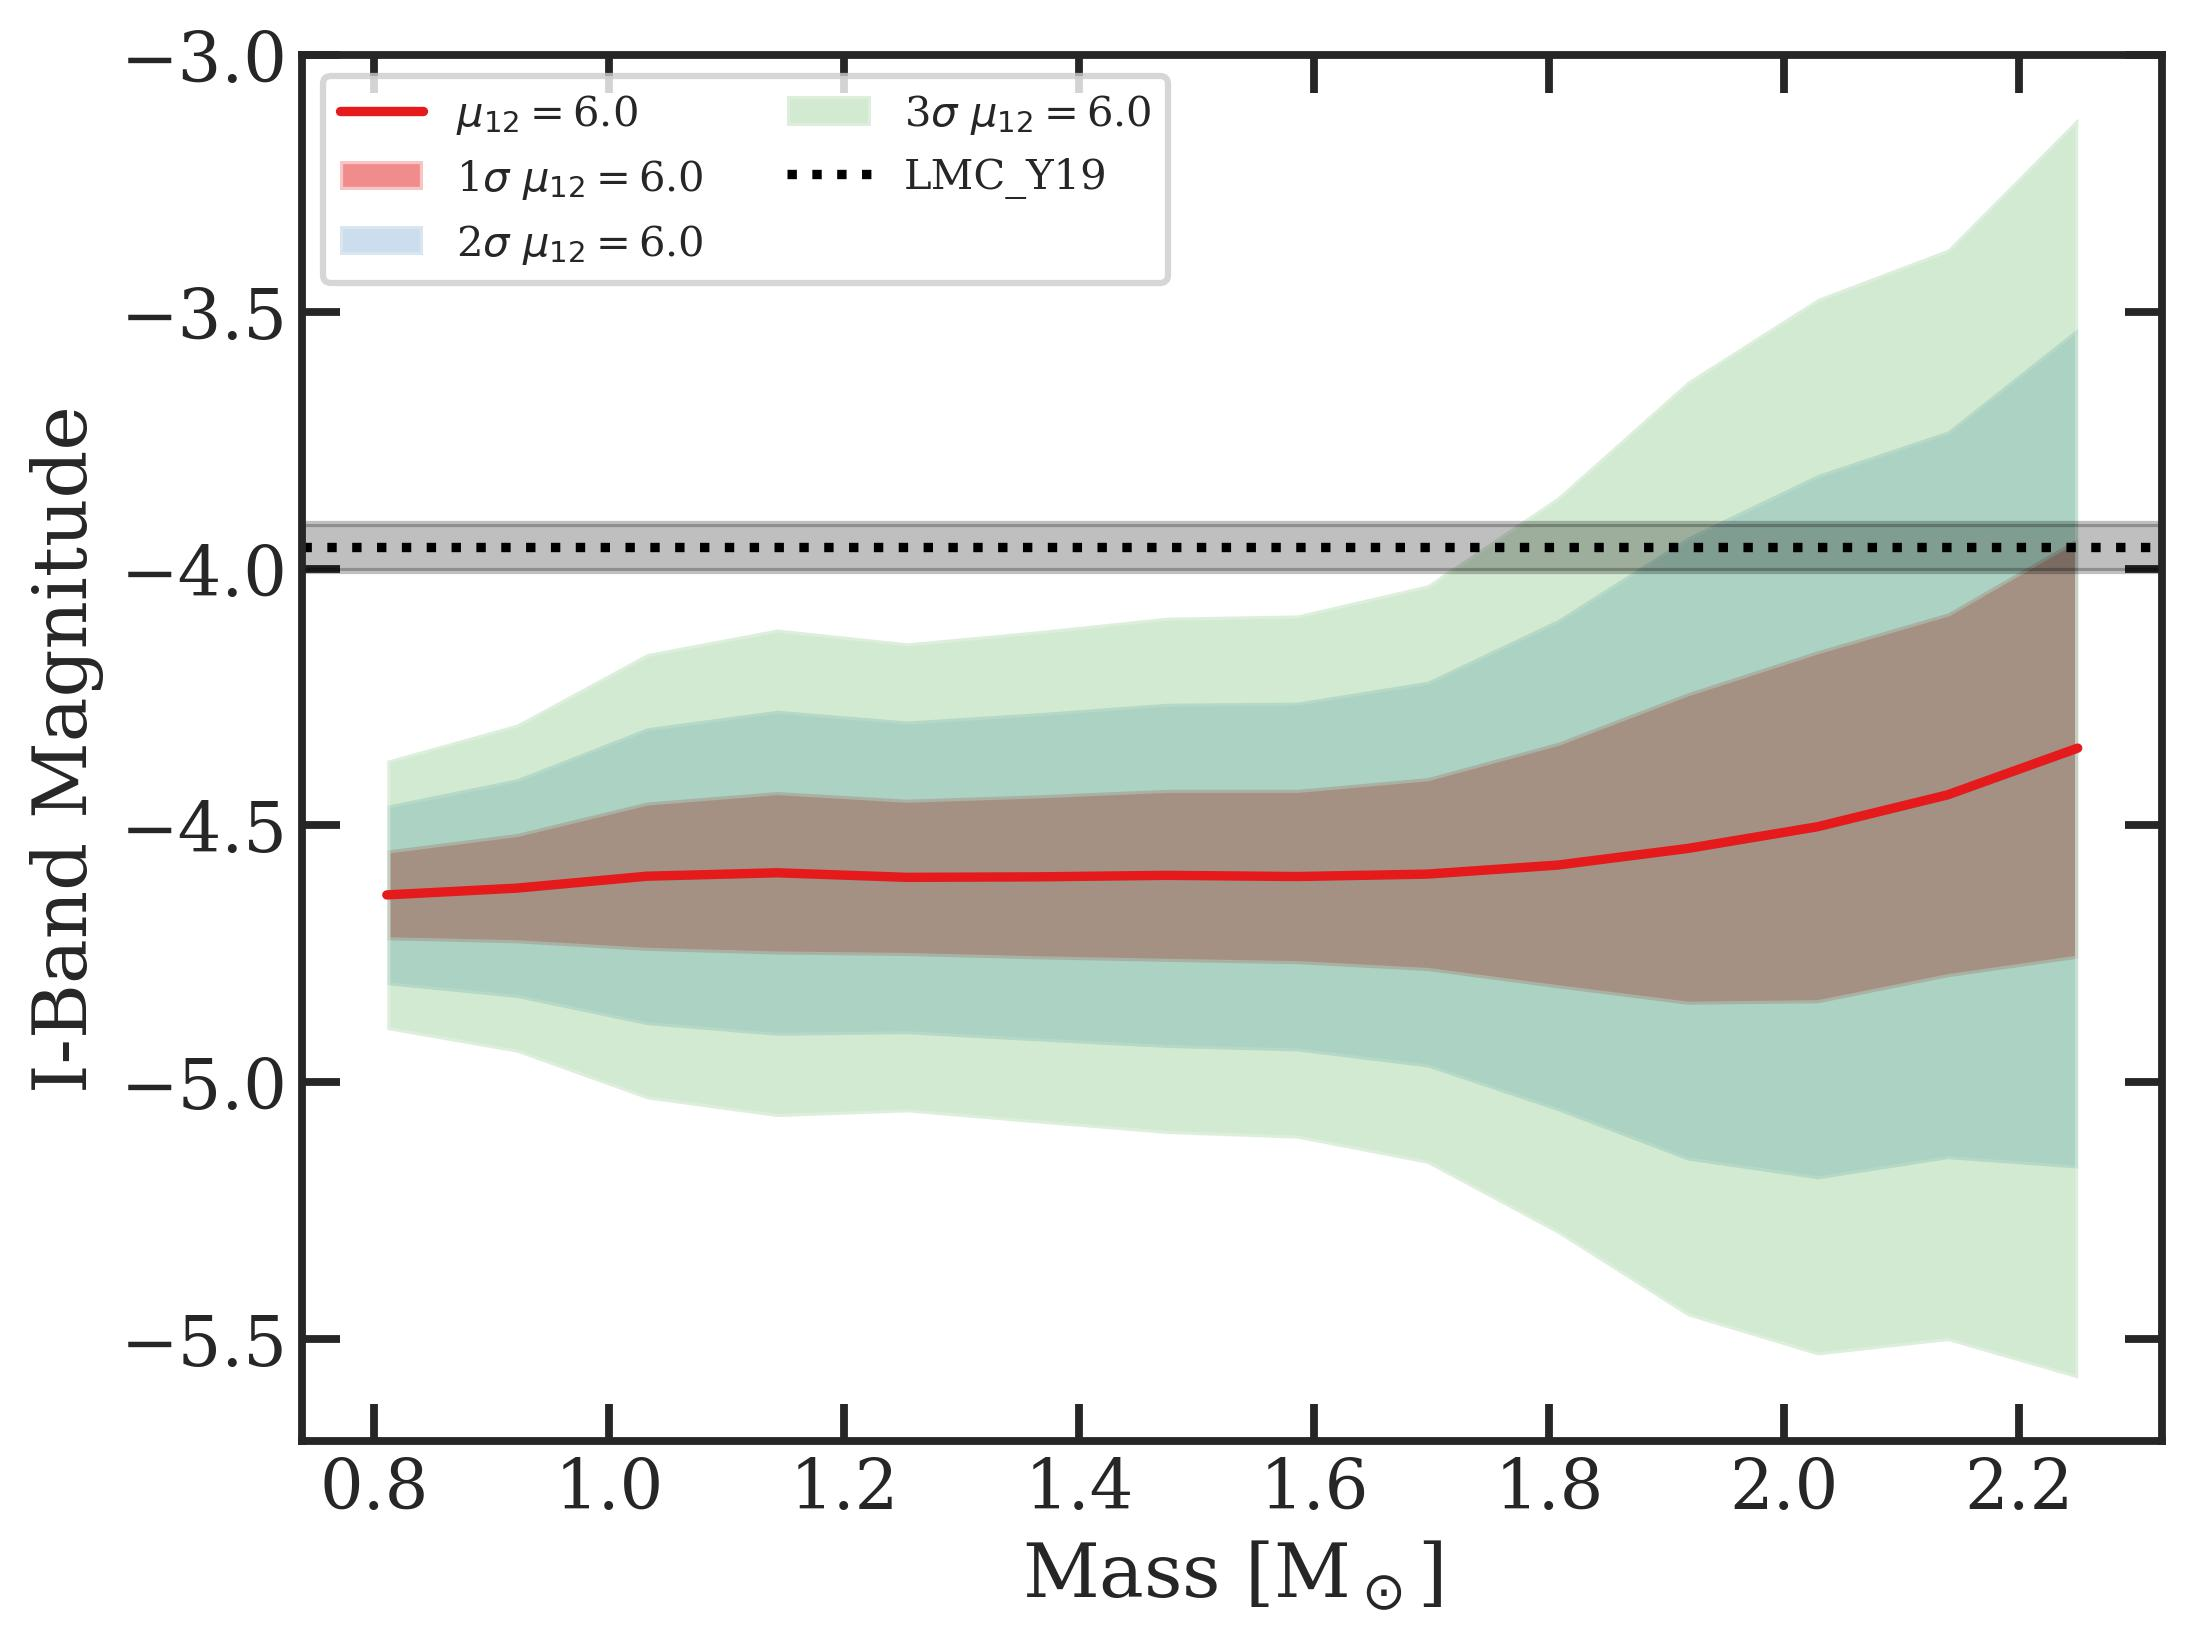
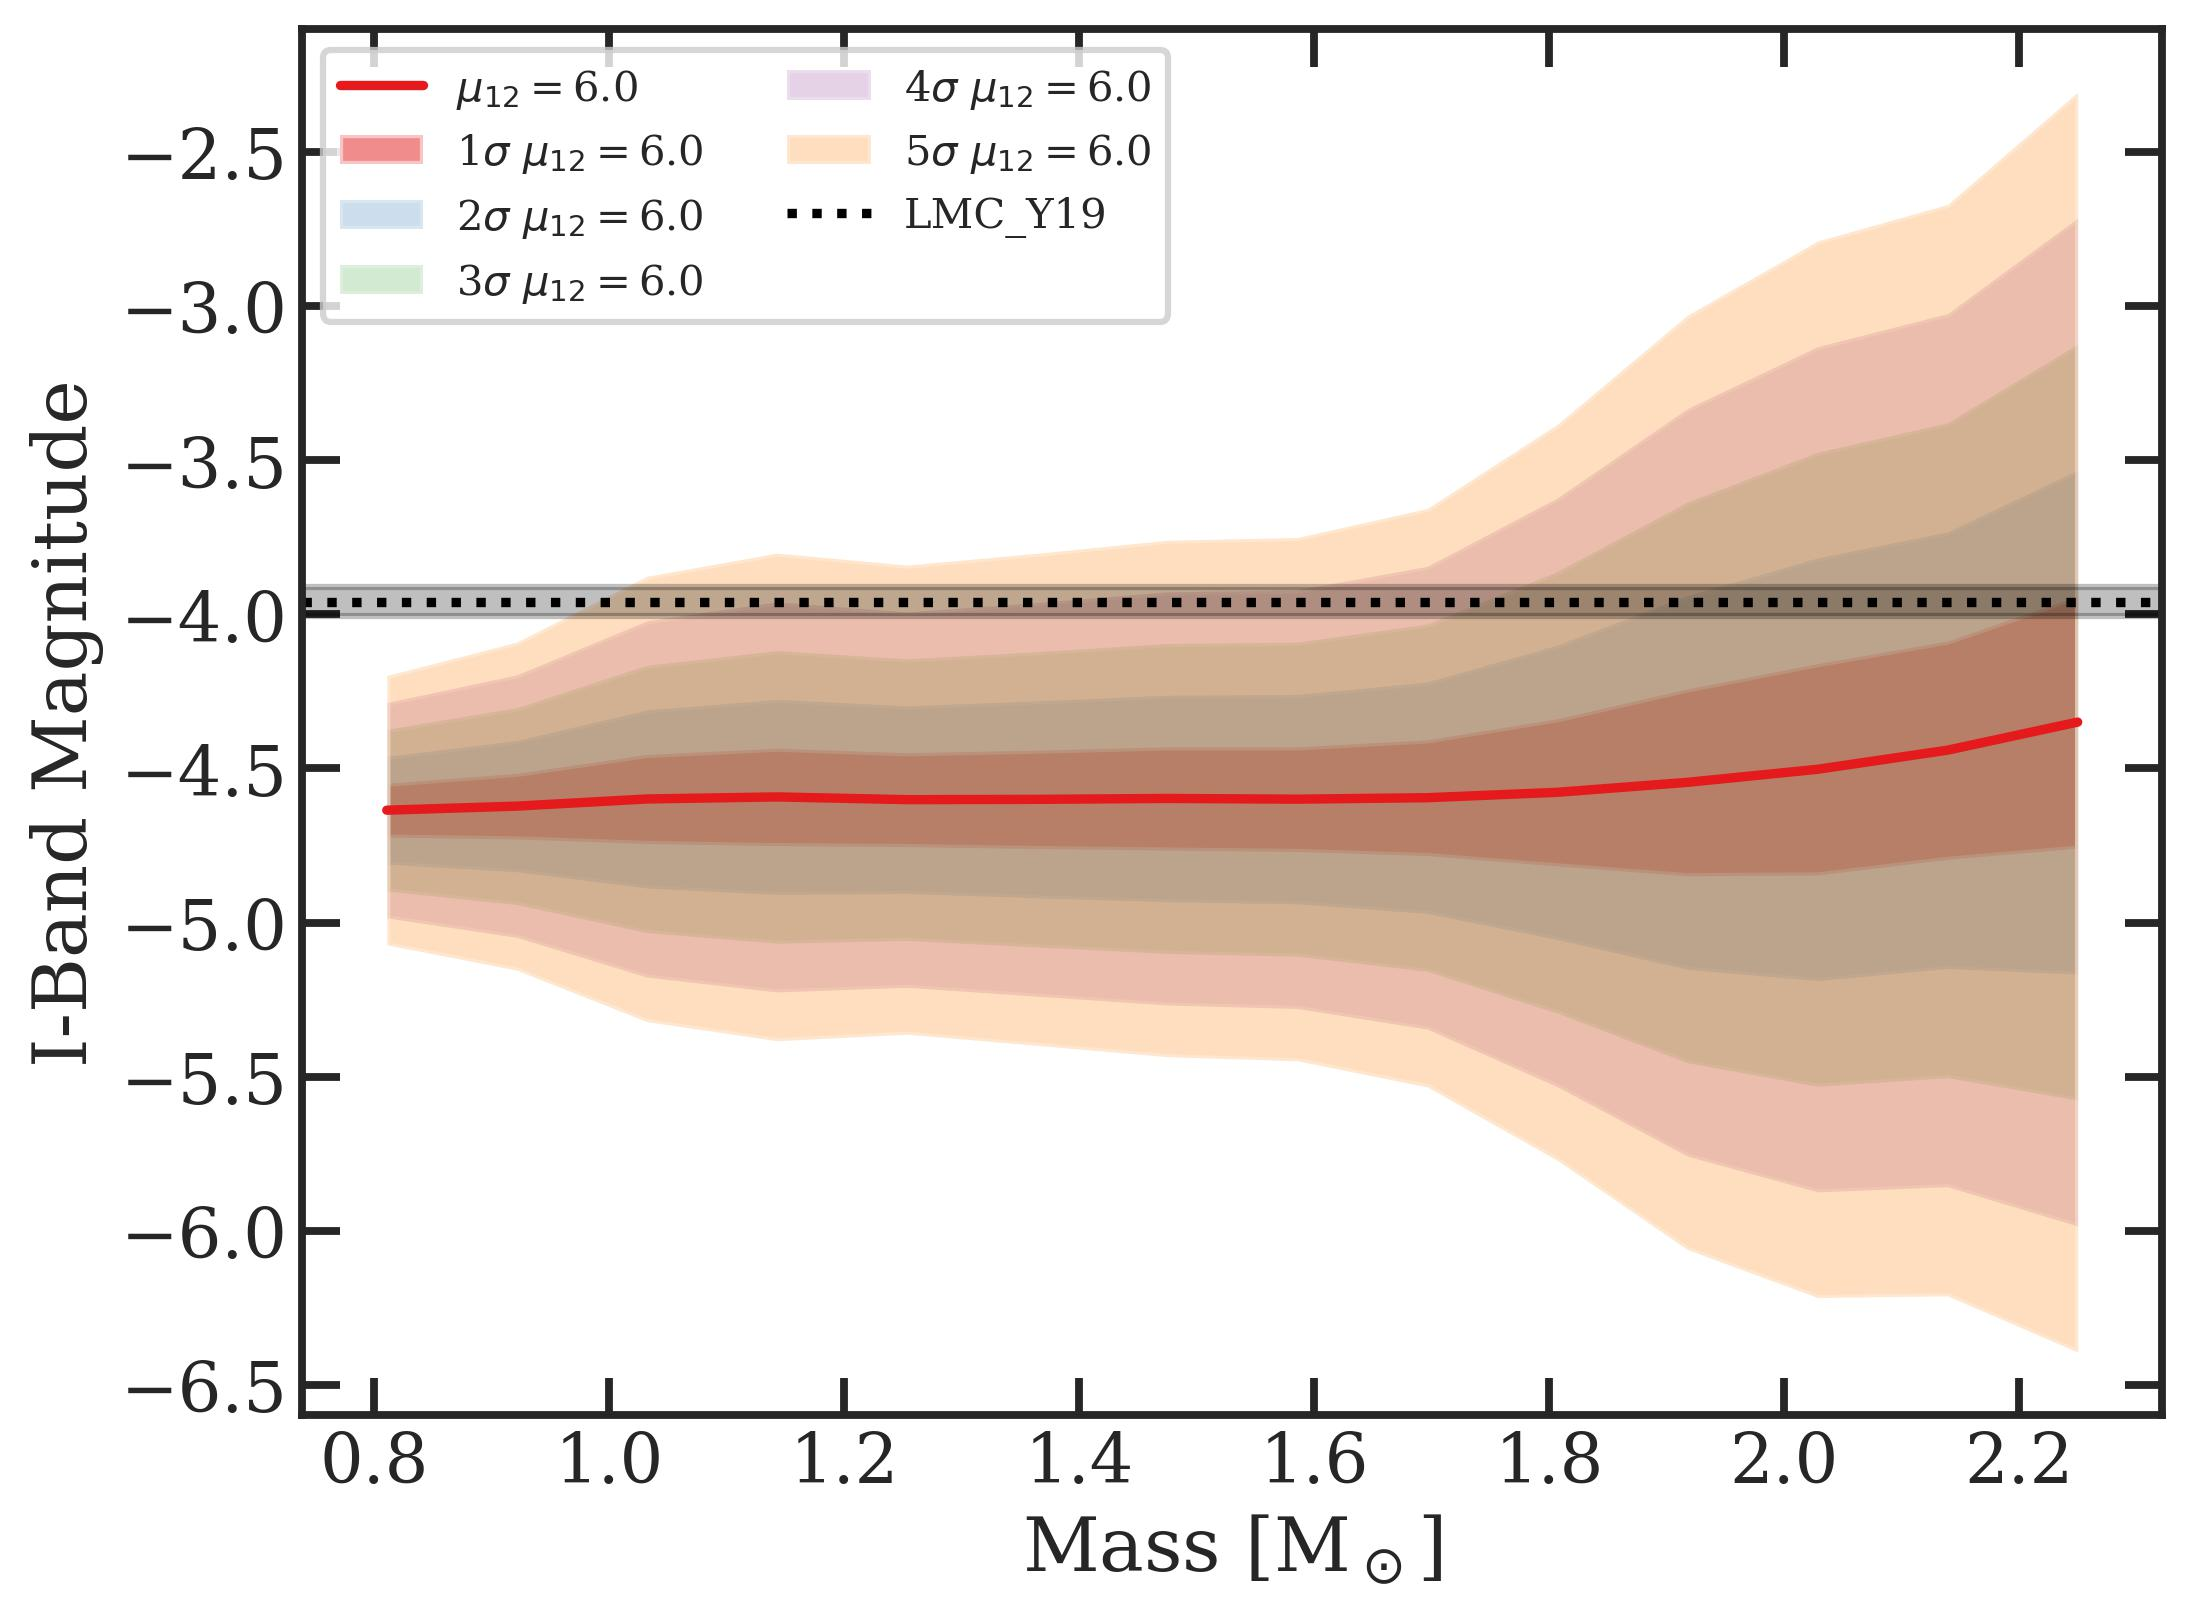
add 4 and 5 sigma

diff --git a/analysis/output_analysis/genPlots.py b/analysis/output_analysis/genPlots.py
@@ -174,6 +174,13 @@ def Iband_vs_binned(df, obs, useAllMus=True):
     Plots M_I vs. binned version of other input params
     '''
     df = df[df.flag==0]
+
+    labels = [r'Mass [M$_\odot$]', 'Y', 'Z']
+    keys = ['mass', 'y', 'z']
+    tols = [0, 0, 0]
+    locs = ['upper left', 'upper left', 'best']
+    allMus = np.sort(df.mu.unique())
+
     
     if useAllMus:
         mus = [allMus[1], allMus[-10], allMus[-1]]
@@ -214,12 +221,6 @@ def Iband_vs_binned(df, obs, useAllMus=True):
 
     df['M_I_corrected'] = pd.Series(corrected_IBand, index=df.index)
     
-    labels = [r'Mass [M$_\odot$]', 'Y', 'Z']
-    keys = ['mass', 'y', 'z']
-    tols = [0, 0, 0]
-    locs = ['upper left', 'upper left', 'best']
-    allMus = np.sort(df.mu.unique())
-    
     for key, label, tol, loc in zip(keys, labels, tols, locs):
 
         fig, ax = plt.subplots(1, figsize=(8,6))
@@ -245,6 +246,9 @@ def Iband_vs_binned(df, obs, useAllMus=True):
             if not useAllMus:
                 ax.fill_between(x, y-2*err, y+2*err, label=r'2$\sigma$ {}'.format(cap), alpha=0.25)
                 ax.fill_between(x, y-3*err, y+3*err, label=r'3$\sigma$ {}'.format(cap), alpha=0.25)
+                ax.fill_between(x, y-4*err, y+4*err, label=r'4$\sigma$ {}'.format(cap), alpha=0.25)
+                ax.fill_between(x, y-5*err, y+5*err, label=r'5$\sigma$ {}'.format(cap), alpha=0.25)
+
                 
         # Plot observational values
         a = 0.25
